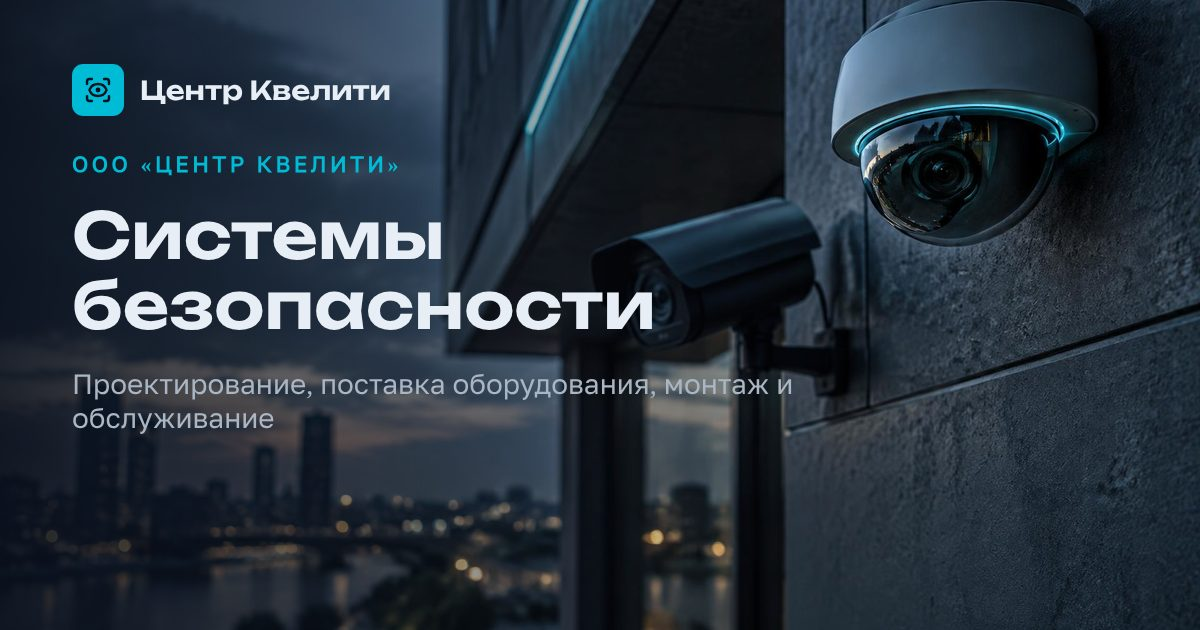
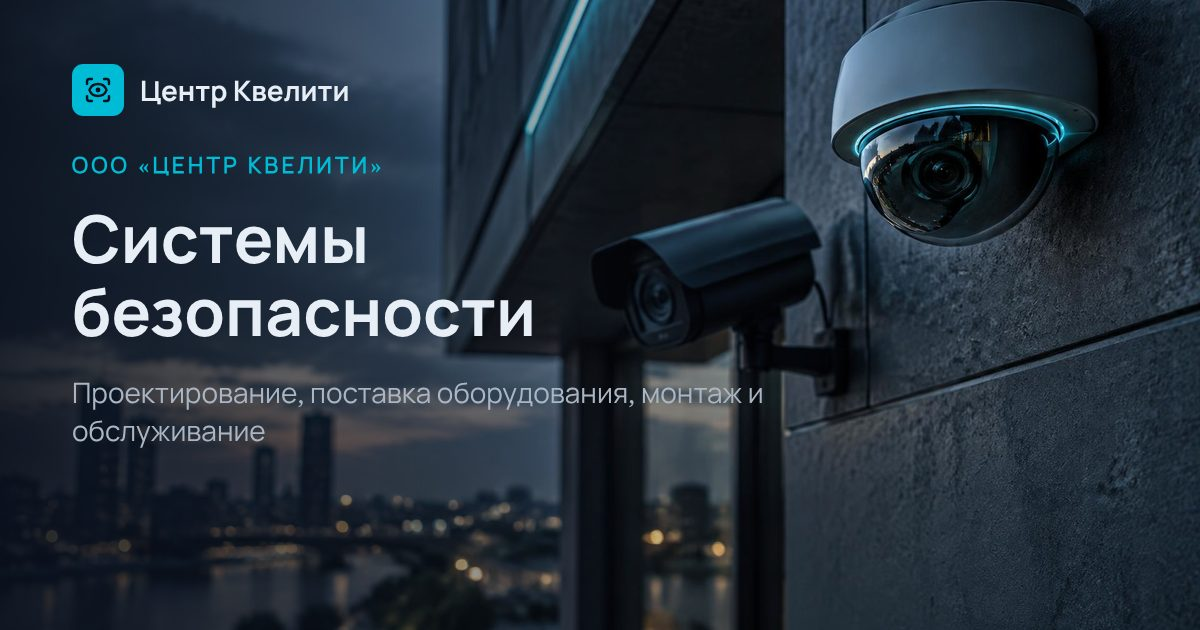
Шрифт: Manrope для заголовков и текста вместо Unbounded и Golos Text; картинка превью перерисована
Claude-Session: https://claude.ai/code/session_011rfQ84zw86sxvMcCoCRTT1

diff --git a/src/styles.css b/src/styles.css
@@ -1,24 +1,20 @@
 @import "tailwindcss" source(none);
 @source "../src";
 @import "tw-animate-css";
-@import "@fontsource/golos-text/cyrillic-400.css";
-@import "@fontsource/golos-text/cyrillic-500.css";
-@import "@fontsource/golos-text/cyrillic-600.css";
-@import "@fontsource/golos-text/latin-400.css";
-@import "@fontsource/golos-text/latin-500.css";
-@import "@fontsource/golos-text/latin-600.css";
-@import "@fontsource/unbounded/cyrillic-400.css";
-@import "@fontsource/unbounded/cyrillic-500.css";
-@import "@fontsource/unbounded/cyrillic-600.css";
-@import "@fontsource/unbounded/latin-400.css";
-@import "@fontsource/unbounded/latin-500.css";
-@import "@fontsource/unbounded/latin-600.css";
+@import "@fontsource/manrope/cyrillic-400.css";
+@import "@fontsource/manrope/cyrillic-500.css";
+@import "@fontsource/manrope/cyrillic-600.css";
+@import "@fontsource/manrope/cyrillic-700.css";
+@import "@fontsource/manrope/latin-400.css";
+@import "@fontsource/manrope/latin-500.css";
+@import "@fontsource/manrope/latin-600.css";
+@import "@fontsource/manrope/latin-700.css";
 
 @custom-variant dark (&:is(.dark *));
 
 @theme inline {
-  --font-display: "Unbounded", system-ui, sans-serif;
-  --font-sans: "Golos Text", system-ui, sans-serif;
+  --font-display: "Manrope", system-ui, sans-serif;
+  --font-sans: "Manrope", system-ui, sans-serif;
   --radius-sm: calc(var(--radius) - 4px);
   --radius-md: calc(var(--radius) - 2px);
   --radius-lg: var(--radius);
@@ -138,6 +134,7 @@
   h2,
   h3 {
     font-family: var(--font-display);
+    font-weight: 700;
     letter-spacing: -0.02em;
     text-wrap: balance;
   }
